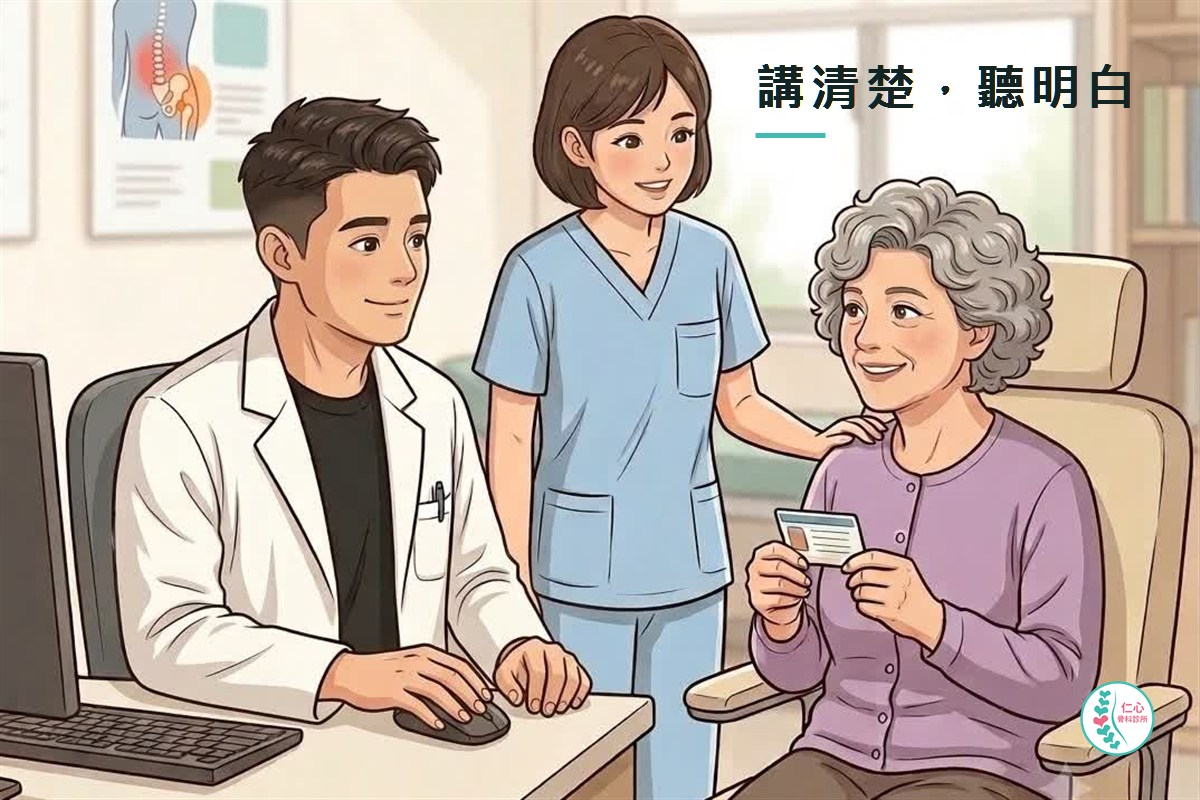
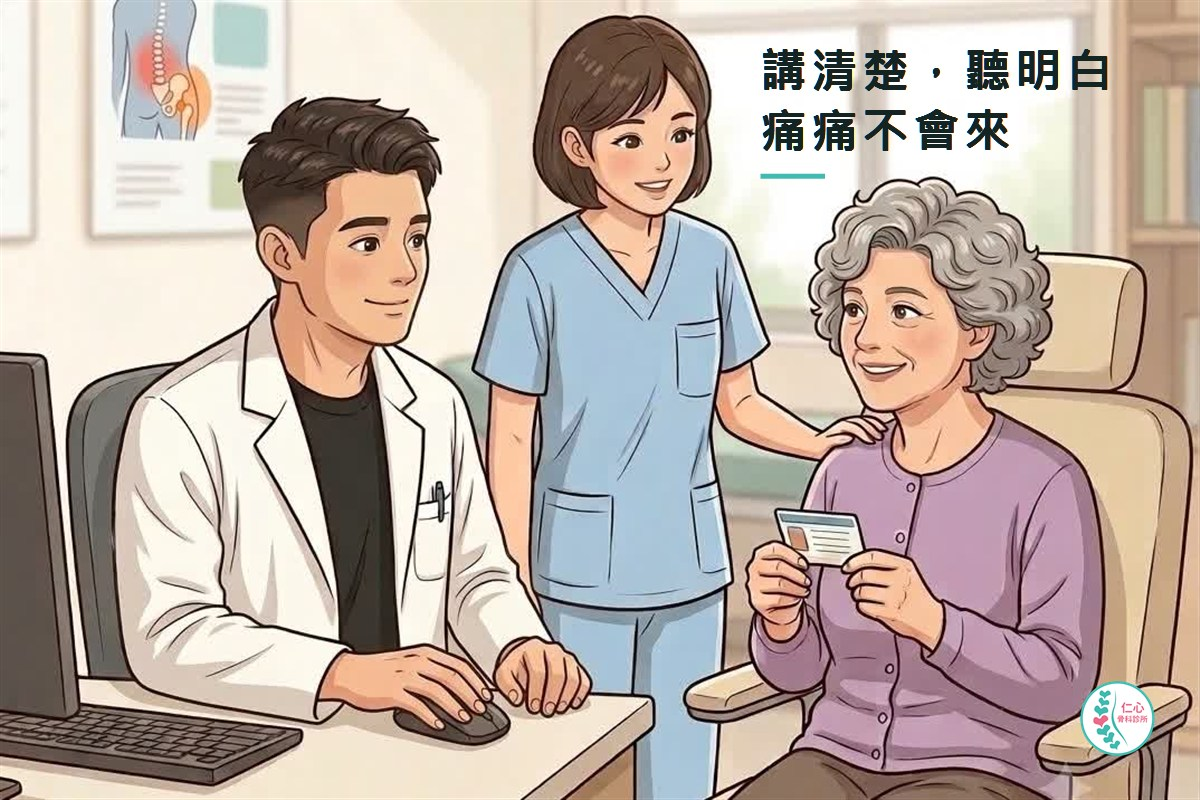
標題改成講清楚，聽明白，痛痛不會來；封面同步

Changed region(s): [[0.6167, 0.0625, 0.9558, 0.1875], [0.6475, 0.2188, 0.6783, 0.25]]

diff --git a/public/_draft-20260902-listening/index.html b/public/_draft-20260902-listening/index.html
@@ -3,18 +3,18 @@
 <head>
 <meta charset="utf-8">
 <meta name="viewport" content="width=device-width, initial-scale=1">
-<title>安全、精準、有效，是從聽懂你在說什麼開始｜林士傑醫師</title>
-<meta name="description" content="阿嬤說「骨科」被聽成「婦科」，掛成婦產科，報到一直失敗。骨科醫師記下幾則診間裡的語言落差，以及為什麼問清楚、聽懂、再去對，是安全與精準真正的起點。">
+<title>講清楚，聽明白，痛痛不會來｜林士傑醫師</title>
+<meta name="description" content="阿嬤說「骨科」被聽成「婦科」，掛成婦產科；兩週後她回診，好了很多。那天真正難的其實不是掛錯科，是我解釋病情時她一直插話。">
 <meta name="author" content="林士傑醫師">
-<meta property="og:title" content="安全、精準、有效，是從聽懂你在說什麼開始">
-<meta property="og:description" content="幾則診間裡的語言落差——有病人講的，也有我聽錯的。聽懂之後還要去對，那是安全的第一道防線。">
+<meta property="og:title" content="講清楚，聽明白，痛痛不會來">
+<meta property="og:description" content="插卡失敗的阿嬤回診了。那天真正難的不是掛錯科，是解釋病情時她一直插話。">
 <meta property="og:type" content="article">
 <meta property="og:locale" content="zh_TW">
 <meta property="og:url" content="https://rensin-clinic.sclin.net/20260902-listening/">
 
 <!-- 供 tools/build.mjs 讀取；post:updated 由腳本自動維護，請勿手改 -->
-<meta name="post:title"     content="安全、精準、有效，是從聽懂你在說什麼開始">
-<meta name="post:summary"   content="阿嬤說「骨科」被聽成「婦科」，掛成婦產科，報到一直失敗。幾則診間裡的語言落差——有病人講的，也有我聽錯的——以及為什麼聽懂之後還要去對。">
+<meta name="post:title"     content="講清楚，聽明白，痛痛不會來">
+<meta name="post:summary"   content="插卡失敗的阿嬤回診了，好很多。那天真正難的不是掛錯科，是我解釋病情時她一直插話——所以我停下來說：妳先聽我講完，再讓妳問。">
 <meta name="post:tag"       content="仁心百態">
 <meta name="post:author"    content="林士傑醫師">
 <meta name="post:published" content="2026-09-02">
@@ -48,7 +48,7 @@
     <div class="hero">
       <div class="wrap">
         <p class="eyebrow">仁心百態</p>
-        <h1>還記得那位插卡失敗的阿嬤嗎？</h1>
+        <h1>講清楚，聽明白，<br>痛痛不會來</h1>
         <p class="lede">
           她回診了，好很多。而那天真正難的，不是掛錯科。
         </p>
